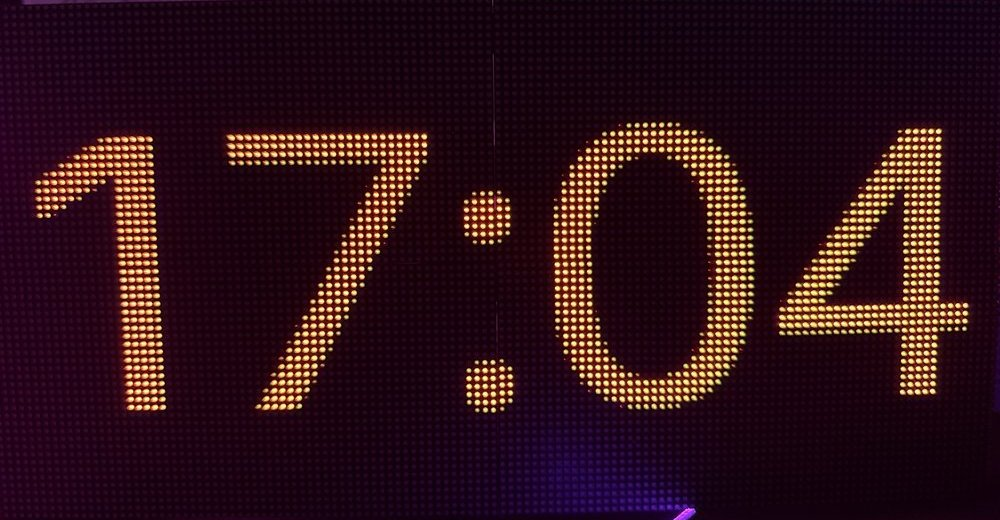
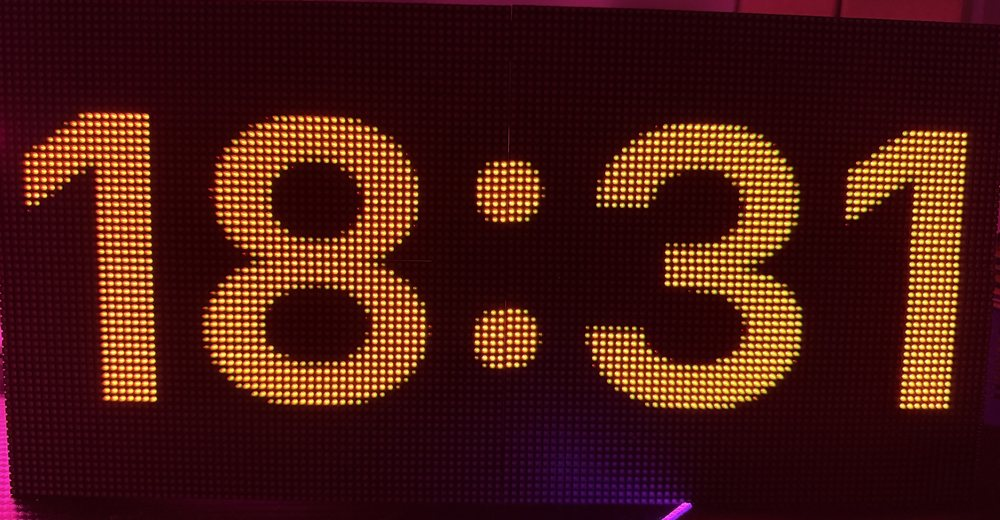
docs: showcase christmas countdown and language support
- Add live GIF of the matrix playing all modules as hero image
- Add seasonal Christmas section with animation and photos in four languages
- Document the language setting, text overrides and module translations
- Update module table, own-module example and project structure
- Replace clock photos with the new Inter font
- Update roadmap

diff --git a/docs/README.de.md b/docs/README.de.md
@@ -12,11 +12,48 @@ Baue eigene Module – Uhren, Countdowns, Krypto-Ticker, Animationen – und las
 ![Panels](https://img.shields.io/badge/Panels-4%C3%97%2064%C3%9732-00b4d8)
 ![Status](https://img.shields.io/badge/Status-im%20Aufbau-orange)
 ![License](https://img.shields.io/badge/License-GPL--3.0-blue)
+![Sprachen](https://img.shields.io/badge/Sprachen-EN%20%C2%B7%20DE%20%C2%B7%20FR%20%C2%B7%20ES-8a2be2)
 
-<img src="images/matrix-clock-blue.jpg" width="49%" alt="Uhr-Modul mit Sekunden auf der LED-Matrix">
-<img src="images/matrix-clock-orange.jpg" width="49%" alt="Uhr-Modul ohne Sekunden auf der LED-Matrix">
+<img src="images/playlist.gif" width="100%" alt="Die Matrix spielt den Weihnachts-Countdown und zwei Uhren nacheinander ab">
+
+<sub>Echte Panels, echte Zeit: Weihnachts-Countdown und zwei Uhr-Varianten im Wechsel.</sub>
 
 </div>
+
+---
+
+## 🎄 Saison-Highlight: Weihnachts-Countdown
+
+Bring deine Matrix in Weihnachtsstimmung: eine funkelnde Lichterkette, ein Tannenbaum mit leuchtendem Stern,
+sanft fallender Schnee – und ein großer Countdown bis Heiligabend. An Heiligabend wechselt die Anzeige
+zu einem bunten Weihnachtsgruß, und nach den Feiertagen zählt sie von selbst auf das nächste Weihnachten hin.
+
+<div align="center">
+<img src="images/christmas.gif" width="100%" alt="Animierter Weihnachts-Countdown auf der LED-Matrix">
+</div>
+
+Er spricht deine Sprache – Englisch, Deutsch, Französisch und Spanisch sind eingebaut:
+
+<div align="center">
+<img src="images/christmas-en.jpg" width="49%" alt="Weihnachts-Countdown auf Englisch">
+<img src="images/christmas-de.jpg" width="49%" alt="Weihnachts-Countdown auf Deutsch">
+<img src="images/christmas-fr.jpg" width="49%" alt="Weihnachts-Countdown auf Französisch">
+<img src="images/christmas-es.jpg" width="49%" alt="Weihnachts-Countdown auf Spanisch">
+</div>
+
+In deine `config/config.yaml` eintragen:
+
+```yaml
+language: de                # en, de, fr, es
+
+modules:
+  - type: christmas
+    duration: 15
+    hour: 18                # Christmas Eve at 18:00, 0 = midnight
+    snow: 40                # number of snowflakes, 0 = no snow
+```
+
+Eigene Texte? Jeder Text lässt sich direkt in der Config ersetzen – siehe [Sprachen](#-sprachen).
 
 ---
 
@@ -155,12 +192,17 @@ hardware:
   brightness: 50            # 0-100
 
 fps: 30                     # frames per second
+language: en                # en, de, fr, es – missing texts fall back to English
 
 modules:                    # played in this order, then from the start
   - type: clock
     duration: 5             # seconds
     color: [0, 150, 255]
     fmt: "%H:%M:%S"
+
+  - type: christmas
+    duration: 15
+    hour: 18
 ```
 
 Die Anzeigegröße wird aus dem Hardware-Teil berechnet:
@@ -173,15 +215,43 @@ Die Anzeigegröße wird aus dem Hardware-Teil berechnet:
 Jeder Modul-Eintrag braucht einen `type` und optional eine `duration` (Sekunden).
 Alle weiteren Angaben bekommt das Modul als Optionen.
 
+### ✦ Sprachen
+
+`language` legt die Sprache für alle Module fest. Eingebaut sind **Englisch** (`en`), **Deutsch** (`de`),
+**Französisch** (`fr`) und **Spanisch** (`es`). Fehlt ein Text in deiner Sprache, wird Englisch genommen –
+es bricht also nichts.
+
+**Einzelne Texte ändern** geht direkt in der Config, ganz ohne Code. Einfach den Text-Schlüssel des Moduls verwenden:
+
+```yaml
+  - type: christmas
+    title: "Nur noch"       # statt "Weihnachten in"
+    done: "Ho ho ho!"       # statt "Frohe Weihnachten!"
+```
+
+| Modul | Text-Schlüssel |
+|-------|----------------|
+| `christmas` | `title`, `days`, `day`, `done` |
+
+**Deine Sprache fehlt?** Ergänze sie in den `texts` des Moduls (siehe
+[Eigenes Modul bauen](#-eigenes-modul-bauen)) und schick einen Pull Request – Beiträge sind sehr willkommen.
+
 ## ✦ Module
 
 | Modul | Beschreibung | Optionen | Status |
 |-------|--------------|----------|--------|
 | `clock` | Digitale Uhr, passt sich selbst an die Anzeige an | `color`, `fmt` ([strftime](https://docs.python.org/3/library/time.html#time.strftime)) | ✅ |
+| `christmas` | 🎄 Countdown bis Heiligabend mit Lichterkette, Baum und Schnee | `hour`, `snow`, [Texte](#-sprachen) | ✅ |
 | Lauftext | Text mit einstellbarer Geschwindigkeit | | geplant |
 | Countdown | Tage, Stunden, Minuten bis zu einem Datum | | geplant |
 | GIF-Player | Eigene Animationen abspielen | | geplant |
 | Krypto-Ticker | Kurse per Web-API, mit Verlauf | | Idee |
+
+<div align="center">
+<img src="images/matrix-clock-blue.jpg" width="49%" alt="Uhr-Modul mit Sekunden">
+<img src="images/matrix-clock-orange.jpg" width="49%" alt="Uhr-Modul ohne Sekunden">
+<br><sub>Zweimal dasselbe <code>clock</code>-Modul – nur <code>color</code> und <code>fmt</code> sind anders.</sub>
+</div>
 
 ## ✦ Eigenes Modul bauen
 
@@ -199,8 +269,8 @@ from ledmatrix.modules.base import Module
 
 
 class Bounce(Module):
-    def __init__(self, width: int, height: int, color=(255, 0, 80)) -> None:
-        super().__init__(width, height)
+    def __init__(self, width: int, height: int, color=(255, 0, 80), **kwargs) -> None:
+        super().__init__(width, height, **kwargs)
         self.color = tuple(color)
 
     def render(self, t: float) -> Image.Image:
@@ -235,6 +305,35 @@ Mit `python -m ledmatrix --preview` anschauen – fertig.
 > [!TIP]
 > Immer mit `self.width` und `self.height` rechnen, nie mit festen Zahlen –
 > dann läuft dein Modul auf jedem Panel-Aufbau.
+> `**kwargs` an `super().__init__()` weitergeben – darüber bekommt dein Modul die Sprache.
+
+### Texte in mehreren Sprachen
+
+Leg deine Texte in `texts` ab und hol sie mit `self.text(...)`:
+
+```python
+from PIL import Image, ImageDraw
+
+from ledmatrix.fonts import fit_font
+from ledmatrix.modules.base import Module
+
+
+class Greeting(Module):
+    texts = {
+        "en": {"hello": "Hello!"},
+        "de": {"hello": "Hallo!"},
+    }
+
+    def render(self, t: float) -> Image.Image:
+        img = Image.new("RGB", (self.width, self.height))
+        font = fit_font(self.text("hello"), self.width - 4, self.height - 4)
+        ImageDraw.Draw(img).text((self.width / 2, self.height / 2), self.text("hello"),
+                                 font=font, fill=(255, 255, 255), anchor="mm")
+        return img
+```
+
+`fit_font` (aus `ledmatrix.fonts`) sucht die größte Schriftgröße, die passt – mit der mitgelieferten
+Schrift [Inter](https://github.com/rsms/inter), die alle Umlaute und Akzente kann.
 
 ---
 
@@ -248,14 +347,17 @@ Waveshare-P2.5-LED-Matrix/
 ├── src/ledmatrix/
 │   ├── __main__.py             Startpunkt (python -m ledmatrix)
 │   ├── config.py               Config einlesen und prüfen
+│   ├── fonts.py                Schrift-Helfer (mitgelieferte Inter-Schrift)
 │   ├── renderer.py             Ausgabe auf die LED-Panels
 │   ├── scheduler.py            spielt die Module nacheinander ab
 │   ├── modules/
-│   │   ├── base.py             Basisklasse für alle Module
-│   │   └── clock.py            Uhr-Modul
-│   └── preview/
-│       ├── renderer.py         Webserver für die Browser-Vorschau
-│       └── index.html          Vorschau-Seite
+│   │   ├── base.py             Basisklasse für alle Module (inkl. Übersetzungen)
+│   │   ├── clock.py            Uhr-Modul
+│   │   └── christmas.py        Weihnachts-Countdown
+│   ├── preview/
+│   │   ├── renderer.py         Webserver für die Browser-Vorschau
+│   │   └── index.html          Vorschau-Seite
+│   └── assets/fonts/           Inter-Schrift und ihre Lizenz
 └── pyproject.toml              Projektbeschreibung und Abhängigkeiten
 ```
 

diff --git a/README.md b/README.md
@@ -12,11 +12,48 @@ Build your own modules – clocks, countdowns, crypto tickers, animations – an
 ![Panels](https://img.shields.io/badge/Panels-4%C3%97%2064%C3%9732-00b4d8)
 ![Status](https://img.shields.io/badge/Status-work%20in%20progress-orange)
 ![License](https://img.shields.io/badge/License-GPL--3.0-blue)
+![Languages](https://img.shields.io/badge/Languages-EN%20%C2%B7%20DE%20%C2%B7%20FR%20%C2%B7%20ES-8a2be2)
 
-<img src="docs/images/matrix-clock-blue.jpg" width="49%" alt="Clock module with seconds on the LED matrix">
-<img src="docs/images/matrix-clock-orange.jpg" width="49%" alt="Clock module without seconds on the LED matrix">
+<img src="docs/images/playlist.gif" width="100%" alt="The matrix playing the Christmas countdown and two clocks one after another">
+
+<sub>Real panels, real time: the Christmas countdown and two clock styles playing one after another.</sub>
 
 </div>
+
+---
+
+## 🎄 Seasonal highlight: Christmas countdown
+
+Get your matrix into the holiday mood: a twinkling garland, a tree with a glowing star,
+gently falling snow – and a big countdown to Christmas Eve. On Christmas Eve it switches
+to a colorful greeting, and after the holidays it starts counting towards the next Christmas by itself.
+
+<div align="center">
+<img src="docs/images/christmas.gif" width="100%" alt="Animated Christmas countdown on the LED matrix">
+</div>
+
+It speaks your language – English, German, French and Spanish are built in:
+
+<div align="center">
+<img src="docs/images/christmas-en.jpg" width="49%" alt="Christmas countdown in English">
+<img src="docs/images/christmas-de.jpg" width="49%" alt="Christmas countdown in German">
+<img src="docs/images/christmas-fr.jpg" width="49%" alt="Christmas countdown in French">
+<img src="docs/images/christmas-es.jpg" width="49%" alt="Christmas countdown in Spanish">
+</div>
+
+Add it to your `config/config.yaml`:
+
+```yaml
+language: de                # en, de, fr, es
+
+modules:
+  - type: christmas
+    duration: 15
+    hour: 18                # Christmas Eve at 18:00, 0 = midnight
+    snow: 40                # number of snowflakes, 0 = no snow
+```
+
+Your own words? Every text can be replaced right in the config – see [Languages](#-languages).
 
 ---
 
@@ -155,12 +192,17 @@ hardware:
   brightness: 50            # 0-100
 
 fps: 30                     # frames per second
+language: en                # en, de, fr, es – missing texts fall back to English
 
 modules:                    # played in this order, then from the start
   - type: clock
     duration: 5             # seconds
     color: [0, 150, 255]
     fmt: "%H:%M:%S"
+
+  - type: christmas
+    duration: 15
+    hour: 18
 ```
 
 The display size is calculated from the hardware section:
@@ -173,15 +215,43 @@ The display size is calculated from the hardware section:
 Every module entry needs a `type` and optionally a `duration`.
 All other keys are handed to the module as options.
 
+### ✦ Languages
+
+`language` sets the language for all modules. Built in: **English** (`en`), **German** (`de`),
+**French** (`fr`) and **Spanish** (`es`). If a text is missing in your language, English is used –
+nothing breaks.
+
+**Change single texts** directly in the config, no code needed. Just use the text key of the module:
+
+```yaml
+  - type: christmas
+    title: "Only"           # instead of "Christmas in"
+    done: "Ho ho ho!"       # instead of "Merry Christmas!"
+```
+
+| Module | Text keys |
+|--------|-----------|
+| `christmas` | `title`, `days`, `day`, `done` |
+
+**Your language is missing?** Add it to the `texts` of the module (see
+[Build your own module](#-build-your-own-module)) and open a pull request – contributions are very welcome.
+
 ## ✦ Modules
 
 | Module | Description | Options | Status |
 |--------|-------------|---------|--------|
 | `clock` | Digital clock, scales itself to the display | `color`, `fmt` ([strftime](https://docs.python.org/3/library/time.html#time.strftime)) | ✅ |
+| `christmas` | 🎄 Countdown to Christmas Eve with garland, tree and snow | `hour`, `snow`, [texts](#-languages) | ✅ |
 | Scrolling text | Text with adjustable speed | | planned |
 | Countdown | Days, hours, minutes until a date | | planned |
 | GIF player | Play your own animations | | planned |
 | Crypto ticker | Prices via web API, with history | | idea |
+
+<div align="center">
+<img src="docs/images/matrix-clock-blue.jpg" width="49%" alt="Clock module with seconds">
+<img src="docs/images/matrix-clock-orange.jpg" width="49%" alt="Clock module without seconds">
+<br><sub>The same <code>clock</code> module twice – only <code>color</code> and <code>fmt</code> differ.</sub>
+</div>
 
 ## ✦ Build your own module
 
@@ -199,8 +269,8 @@ from ledmatrix.modules.base import Module
 
 
 class Bounce(Module):
-    def __init__(self, width: int, height: int, color=(255, 0, 80)) -> None:
-        super().__init__(width, height)
+    def __init__(self, width: int, height: int, color=(255, 0, 80), **kwargs) -> None:
+        super().__init__(width, height, **kwargs)
         self.color = tuple(color)
 
     def render(self, t: float) -> Image.Image:
@@ -235,6 +305,35 @@ Check it with `python -m ledmatrix --preview` – done.
 > [!TIP]
 > Always calculate with `self.width` and `self.height`, never with fixed numbers –
 > then your module works on every panel setup.
+> Pass `**kwargs` on to `super().__init__()` – that's how your module gets the language.
+
+### Texts in several languages
+
+Put your texts into `texts` and read them with `self.text(...)`:
+
+```python
+from PIL import Image, ImageDraw
+
+from ledmatrix.fonts import fit_font
+from ledmatrix.modules.base import Module
+
+
+class Greeting(Module):
+    texts = {
+        "en": {"hello": "Hello!"},
+        "de": {"hello": "Hallo!"},
+    }
+
+    def render(self, t: float) -> Image.Image:
+        img = Image.new("RGB", (self.width, self.height))
+        font = fit_font(self.text("hello"), self.width - 4, self.height - 4)
+        ImageDraw.Draw(img).text((self.width / 2, self.height / 2), self.text("hello"),
+                                 font=font, fill=(255, 255, 255), anchor="mm")
+        return img
+```
+
+`fit_font` (from `ledmatrix.fonts`) finds the largest font size that fits – using the bundled
+[Inter](https://github.com/rsms/inter) font with full support for umlauts and accents.
 
 ---
 
@@ -248,14 +347,17 @@ Waveshare-P2.5-LED-Matrix/
 ├── src/ledmatrix/
 │   ├── __main__.py             entry point (python -m ledmatrix)
 │   ├── config.py               load and validate the config
+│   ├── fonts.py                font helpers (bundled Inter font)
 │   ├── renderer.py             output to the LED panels
 │   ├── scheduler.py            plays the modules one after another
 │   ├── modules/
-│   │   ├── base.py             base class for all modules
-│   │   └── clock.py            clock module
-│   └── preview/
-│       ├── renderer.py         web server for the browser preview
-│       └── index.html          preview page
+│   │   ├── base.py             base class for all modules (incl. translations)
+│   │   ├── clock.py            clock module
+│   │   └── christmas.py        Christmas countdown
+│   ├── preview/
+│   │   ├── renderer.py         web server for the browser preview
+│   │   └── index.html          preview page
+│   └── assets/fonts/           Inter font and its license
 └── pyproject.toml              project metadata and dependencies
 ```
 

diff --git a/docs/roadmap.de.md b/docs/roadmap.de.md
@@ -42,8 +42,10 @@
 ## Phase 3 – Erste Module 🔜
 
 - [ ] Lauftext
-- [X] Uhr
-- [ ] Countdown
+- [x] Uhr
+- [x] Weihnachts-Countdown mit Lichterkette, Baum und Schnee 🎄
+- [x] Texte in mehreren Sprachen (en, de, fr, es)
+- [ ] Countdown zu einem beliebigen Datum
 - [ ] GIF-Player
 
 ## Phase 4 – Dauerbetrieb

diff --git a/docs/roadmap.md b/docs/roadmap.md
@@ -43,7 +43,9 @@
 
 - [ ] Scrolling text
 - [x] Clock
-- [ ] Countdown
+- [x] Christmas countdown with garland, tree and snow 🎄
+- [x] Texts in several languages (en, de, fr, es)
+- [ ] Countdown to any date
 - [ ] GIF player
 
 ## Phase 4 – Running it for real
